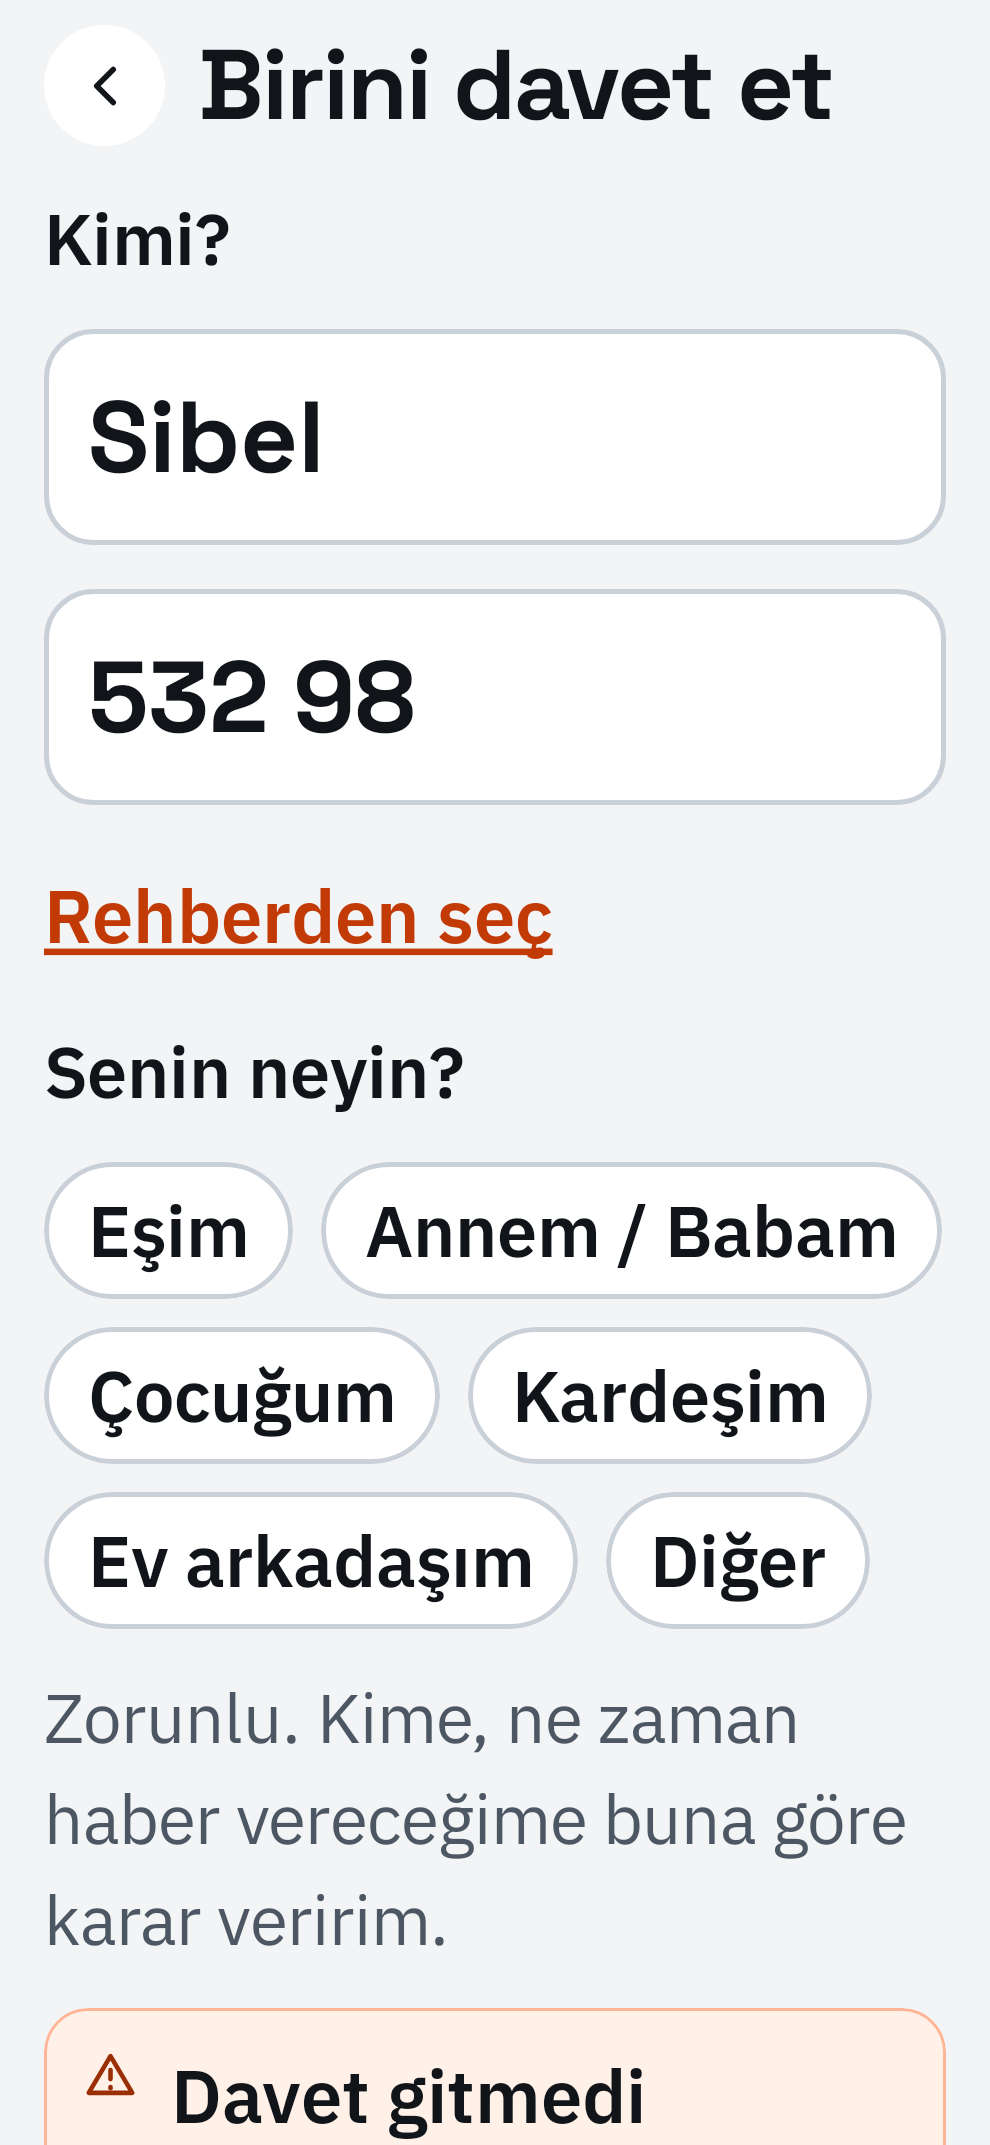
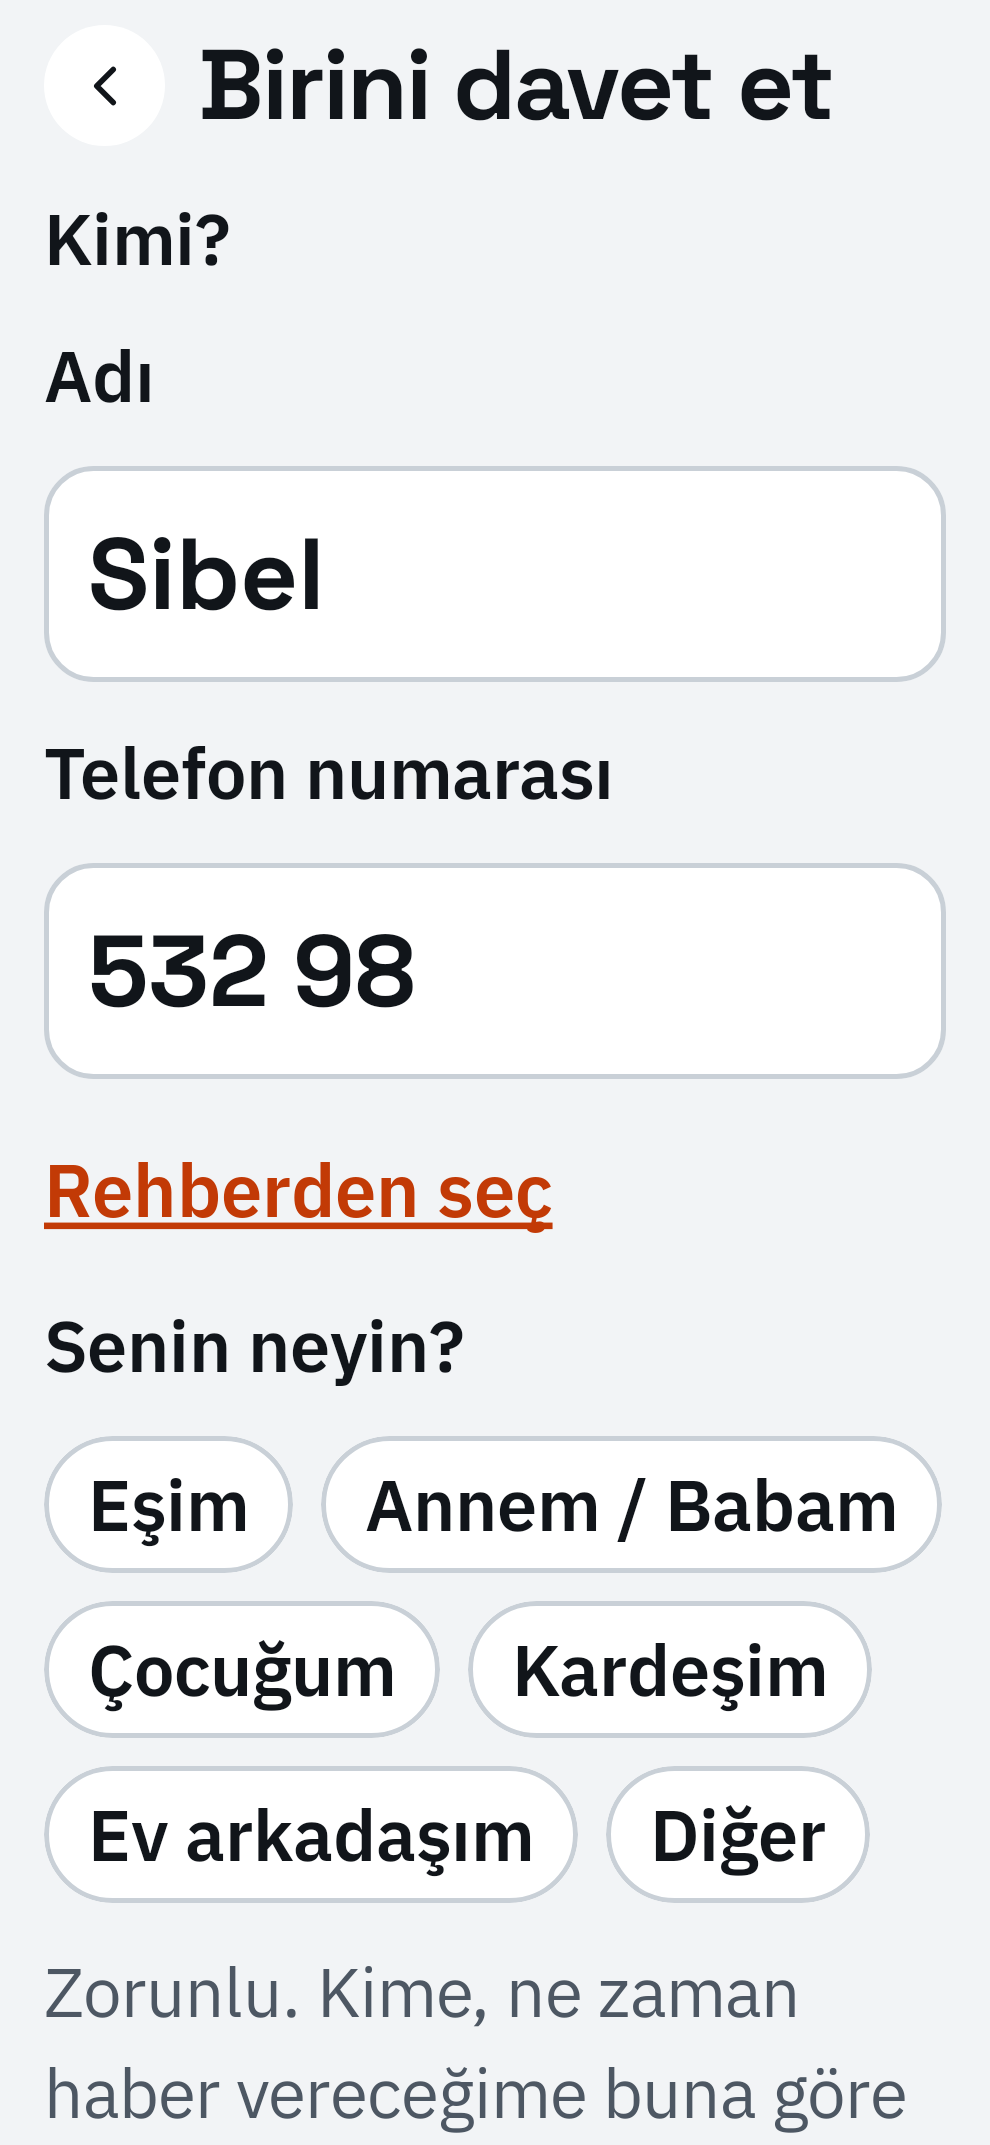
NUD-99 Invite: visible labels on the typed name and number
Claude-Session: https://claude.ai/code/session_01PXCGqoTzJrziHF7Cx8DPxB

diff --git a/apps/android/app/src/test/kotlin/app/nuddle/ui/InviteNumberInputTest.kt b/apps/android/app/src/test/kotlin/app/nuddle/ui/InviteNumberInputTest.kt
@@ -4,8 +4,10 @@ import androidx.compose.runtime.getValue
 import androidx.compose.runtime.mutableStateOf
 import androidx.compose.runtime.remember
 import androidx.compose.runtime.setValue
+import androidx.compose.ui.test.assertIsDisplayed
 import androidx.compose.ui.test.junit4.v2.createComposeRule
 import androidx.compose.ui.test.onNodeWithTag
+import androidx.compose.ui.test.onNodeWithText
 import androidx.compose.ui.test.performTextInput
 import app.nuddle.domain.TurkishPhone
 import app.nuddle.ui.screens.invite.InviteCallbacks
@@ -47,5 +49,12 @@ class InviteNumberInputTest {
         }
         "5320000002".forEach { compose.onNodeWithTag(TestTags.INVITE_NUMBER).performTextInput(it.toString()) }
         assertEquals("5320000002", typed)
+    }
+
+    @Test
+    fun `the typed name and number fields have visible labels`() {
+        compose.setContent { DurtTheme { InviteScreen(InviteUiState(typing = true), InviteCallbacks()) } }
+        compose.onNodeWithText("Adı").assertIsDisplayed()
+        compose.onNodeWithText("Telefon numarası").assertIsDisplayed()
     }
 }

diff --git a/apps/android/app/src/main/kotlin/app/nuddle/ui/screens/invite/InviteScreen.kt b/apps/android/app/src/main/kotlin/app/nuddle/ui/screens/invite/InviteScreen.kt
@@ -135,6 +135,8 @@ private fun ColumnScope.Who(
         }
 
         state.typing -> {
+            // Visible labels as on 0c: without them the second field did not read as a phone number (NUD-99).
+            FieldLabel(stringResource(R.string.invite_name_label))
             BigTextField(
                 value = state.typedName,
                 onValueChange = callbacks.onTypedName,
@@ -142,6 +144,7 @@ private fun ColumnScope.Who(
                 keyboardOptions = KeyboardOptions(capitalization = KeyboardCapitalization.Words, imeAction = ImeAction.Next),
                 modifier = Modifier.fillMaxWidth().testTag(TestTags.INVITE_NAME),
             )
+            FieldLabel(stringResource(R.string.phone_label))
             BigTextField(
                 value = state.typedNumber,
                 onValueChange = callbacks.onTypedNumber,

diff --git a/docs/ux/screens.md b/docs/ux/screens.md
@@ -146,7 +146,7 @@ Consent content opened from the bell, with Reddet instead of Şimdi değil.
 **Copy:** Davet · 2 sa önce | (same as 0f) | İzin ver | Reddet | Reddedersen Sibel'e bildirim gitmez.
 
 ### 1e Invite, first open · `InviteCreate.png`
-Pick a contact (single contact picker) or type a number, then choose the relationship (mandatory, nothing preselected).
+Pick a contact (single contact picker) or type a number, then choose the relationship (mandatory, nothing preselected). "Numarayı elle yaz" shows two inputs, each with a visible label above it as on 0c: Adı | Telefon numarası (NUD-99).
 **Copy:** Birini davet et | Kimi? | Rehberden seç | Sadece seçtiğin kişiyi görürüz | Numarayı elle yaz | Senin neyin? | Eşim · Annem / Babam · Çocuğum · Kardeşim · Ev arkadaşım · Diğer | Zorunlu. Kime, ne zaman haber vereceğime buna göre karar veririm. | Daveti gönder | Kişiyi ve ilişkiyi seçince aktif olur.
 
 ### 1f Invite, ready · `InviteReady.png`
